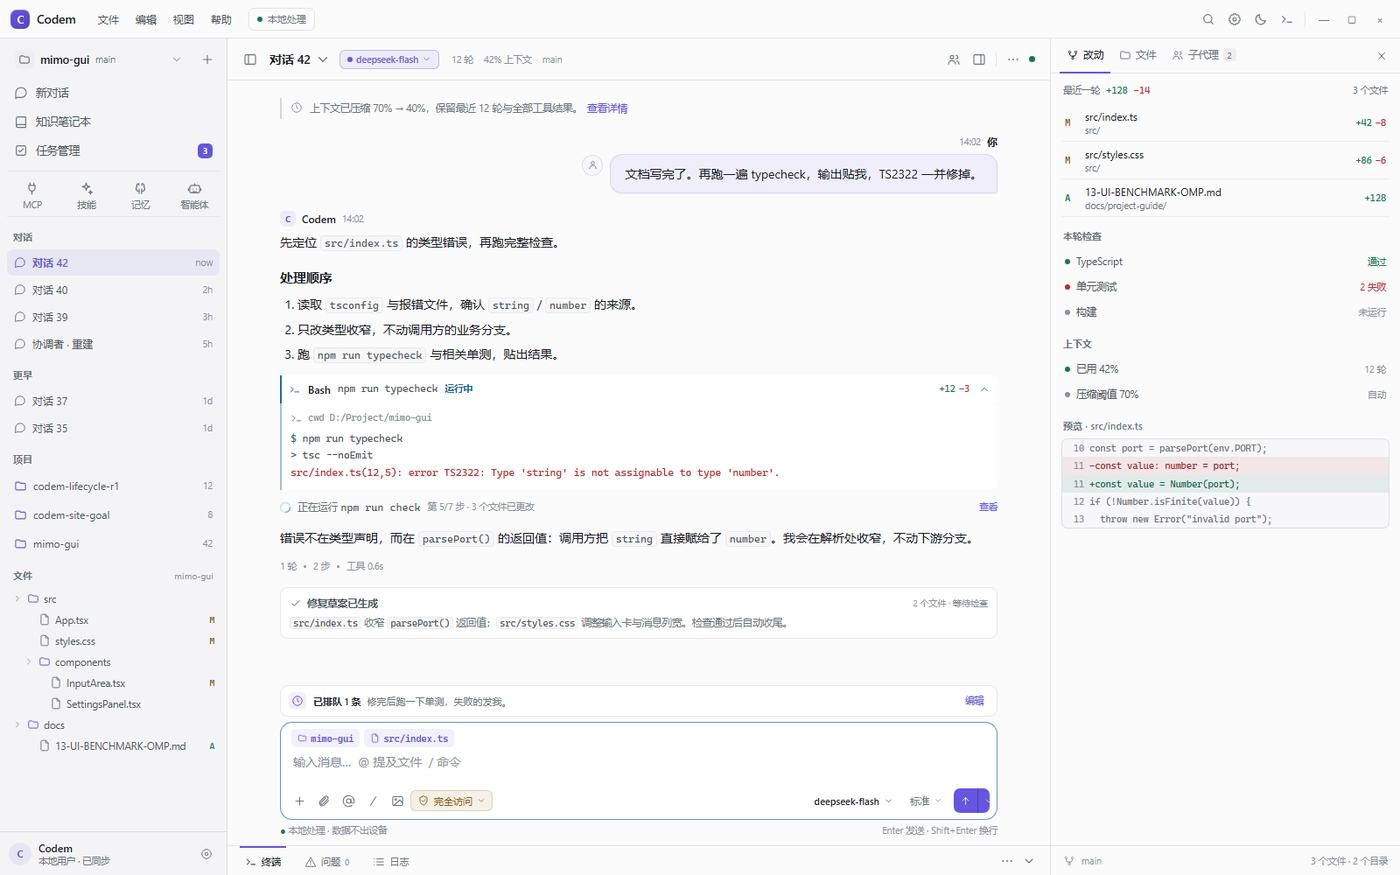
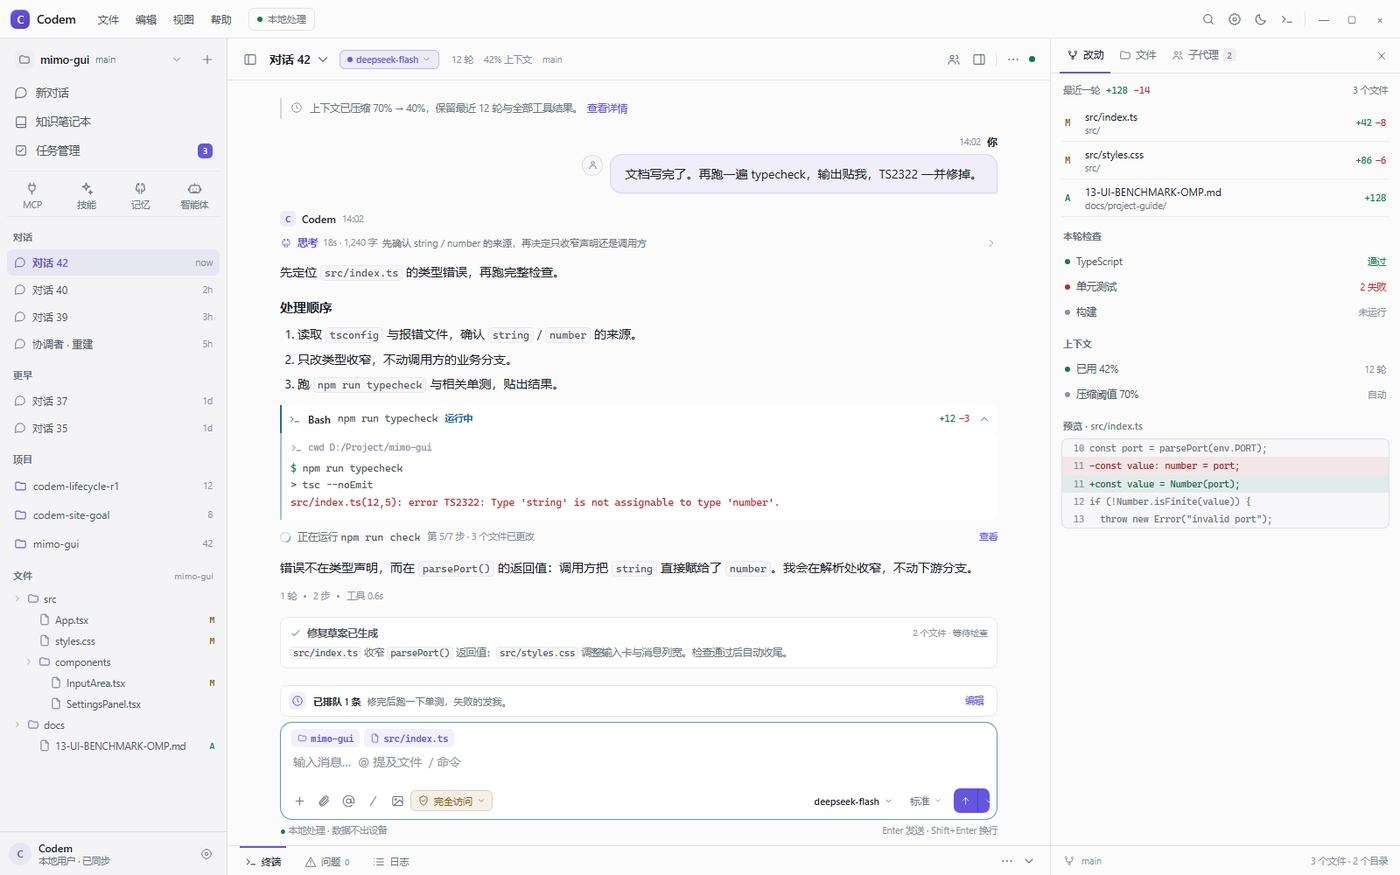
docs(ui): address grouped reasoning vs OMP think timeline
- keep Codem's single message.reasoning model; add P1-6 live grouped
  reasoning (position, latest-line follow, expand, follow-bottom, aria)
- do not fake per-think segmentation; P2 requires reasoningSegments data
- add a collapsed/expanded Think row and ?think=1 preview
- extend state matrix and acceptance to 19 checks

Changed region(s): [[0.1843, 0.2469, 0.7064, 0.7714], [0.6757, 0.4629, 0.7064, 0.4937]]

diff --git a/docs/design/ui-benchmark-mock.html b/docs/design/ui-benchmark-mock.html
@@ -563,6 +563,39 @@
   }
   .msg-name { color: var(--text); font-size: 12px; font-weight: 600; }
   .msg-time { color: var(--text-4); font-variant-numeric: tabular-nums; font-size: 10.5px; }
+  .think-row {
+    display: flex;
+    align-items: center;
+    gap: 6px;
+    width: 100%;
+    height: 26px;
+    margin: 0 0 8px;
+    padding: 0;
+    border: 0;
+    background: none;
+    color: var(--accent);
+    text-align: left;
+  }
+  .think-row .icon { width: 14px; height: 14px; flex: none; opacity: .9; }
+  .think-title { flex: none; font-size: 11.5px; font-weight: 600; }
+  .think-meta { flex: none; color: var(--text-4); font-size: 10.5px; }
+  .think-summary { flex: 1; min-width: 0; overflow: hidden; text-overflow: ellipsis; white-space: nowrap; color: var(--text-3); font-size: 11px; }
+  .think-chev { width: 12px; height: 12px; flex: none; color: var(--text-4); transition: transform .15s ease; }
+  .think-row[aria-expanded="true"] .think-chev { transform: rotate(90deg); }
+  .think-body {
+    margin: 0 0 10px 20px;
+    padding: 8px 12px;
+    border-left: 2px solid color-mix(in srgb, var(--accent) 40%, transparent);
+    border-radius: 0 8px 8px 0;
+    background: var(--surface-2);
+    color: var(--text-2);
+    font-size: 12.5px;
+    line-height: 1.65;
+    white-space: pre-wrap;
+    max-height: 220px;
+    overflow: auto;
+  }
+  .think-body code { font-family: var(--font-mono); font-size: 11.5px; color: var(--accent); }
   .msg.user { display: flex; flex-direction: column; align-items: flex-end; }
   .msg.user .msg-head { justify-content: flex-end; }
   .user-line {
@@ -1567,6 +1600,16 @@
               <article class="msg assistant">
                 <div class="msg-head"><span class="avatar">C</span><span class="msg-name">Codem</span><span class="msg-time">14:02</span></div>
                 <div class="md">
+                  <button class="think-row" id="thinkToggle" aria-expanded="false">
+                    <svg class="icon"><use href="#i-brain"/></svg>
+                    <span class="think-title">思考</span>
+                    <span class="think-meta">18s · 1,240 字</span>
+                    <span class="think-summary">先确认 string / number 的来源，再决定只收窄声明还是调用方</span>
+                    <svg class="icon think-chev"><use href="#i-chevron-right"/></svg>
+                  </button>
+                  <div class="think-body" id="thinkBody" hidden>先定位报错来源：<code>src/index.ts(12,5)</code> 的 value 被推断为 string。
+再确认 <code>parsePort()</code> 的返回类型与调用方期望，避免只改声明。
+最后跑 typecheck 与单测；失败时保留原始输出，不吞错。</div>
                   <p>先定位 <code>src/index.ts</code> 的类型错误，再跑完整检查。</p>
                   <h2>处理顺序</h2>
                   <ol>
@@ -1969,6 +2012,15 @@
       });
     });
   });
+
+  const thinkToggle = $("#thinkToggle");
+  const thinkBody = $("#thinkBody");
+  const setThink = (open) => {
+    thinkBody.hidden = !open;
+    thinkToggle.setAttribute("aria-expanded", String(open));
+  };
+  thinkToggle.addEventListener("click", () => setThink(thinkBody.hidden));
+  if (params.get("think") === "1") setThink(true);
 </script>
 </body>
 </html>

diff --git a/docs/project-guide/13-UI-BENCHMARK-OMP.md b/docs/project-guide/13-UI-BENCHMARK-OMP.md
@@ -41,6 +41,7 @@ Codem 的功能比 OMP 多得多（23 个设置分区、任务中心、知识笔
 | 8 | 侧栏/树密度：260 / 34 / 30 / 26；Git 字母 | 现在偏大、pill 吵 | 40 行滚动；hover 截图 |
 | 9 | 工具去“每张卡”边框，改行 + 状态轨 | 连续调用像一叠盒子 | 5 个工具连续截图 |
 | 10 | 用户气泡保留原版半透明紫 + 轻阴影 | 用户 review：原版比 OMP 实底更精致 | 与原版截图并排；暗/亮/三皮肤对比度 |
+| 11 | 思考块保留 Codem 的“整体一段”，先做活人感 | OMP 是 per-think 分段卡；Codem 数据模型只有一段 `message.reasoning` | 流式中最新行、完成后首行、展开全文；不按空行伪造分段 |
 
 ### 0.2 HTML 预演验证（2026-10-26）
 
@@ -62,6 +63,7 @@ Codem 的功能比 OMP 多得多（23 个设置分区、任务中心、知识笔
 | 工具行 + 左状态轨成立，但代码面板与卡片同色会糊 | 代码面板用 `--surface-2`，工具行用 `--surface`；不要加外框 |
 | 暗色 `#101318` 比 OMP `#121519` 还黑一档 | 保留 `#101318` 作为 Codem 底色；如果实拍仍偏黑，再试 `#111419`，不要直接复制 OMP |
 | 设置 active 14% 在暗色成立；20% 明显成块 | P0-5 的 14% 保持；**删掉被覆盖的旧实心规则** |
+| Codem 的 `message.reasoning` 是**一整段**，OMP 的 `ThinkCard` 是 per-think 时间线卡 | **不照搬 OMP 分段**：P1-6 保留整体模型，做“最新行/首行 + 展开全文 + 跟随最新”；真分段需要 `reasoningSegments` 数据模型，放 P2 可选 |
 
 **预演没有解决的问题**（不要假装已经解决）：
 
@@ -88,6 +90,7 @@ Codem 的功能比 OMP 多得多（23 个设置分区、任务中心、知识笔
 | 空会话 | 欢迎语 + 快捷入口 + 输入焦点 | `ChatPanel` empty-state / quick access | 不显示空白大页；输入框自动聚焦 |
 | 历史加载 / 不可用 | 骨架或状态行 + 重试 | `messages-loading` / `messages-unavailable` | 不闪“空会话”；可重试 |
 | 流式：connecting / receiving / tools | 状态行 + 计时 + 停止按钮；正文光标 | `StreamingTimer` / `StreamingWaitIndicator` / cancel | 三阶段文案不同；停止可立即取消 |
+| 思考块：collapsed / streaming / expanded | 最新行跟随 + 字数 + 展开全文 + 光标；历史默认折叠 | `ReasoningRow`（单块 `message.reasoning`） | 流式中不跳首行；展开后不每帧重置滚动；不伪造分段 |
 | 等待审批 | 行内审批卡或弹窗；风险色 + 允许一次/始终/拒绝 | `PermissionPresetSelector` / approval 逻辑 | 不把“待审批”演成“运行中”；Esc 不误放行 |
 | 队列 / guidance | Composer 上方 36px dock；可编辑/删除 | `guidanceMessages` / queue | 无队列时**不显示** dock |
 | 工具 running / done / error | 左状态轨 + 文案 + 图标；错误可展开 | `ToolCallCard` / `toolStatus` | 不只靠颜色；错误有重试/复制 |
@@ -794,7 +797,41 @@ Codem 的功能比 OMP 多得多（23 个设置分区、任务中心、知识笔
 - 24px 头像与气泡顶对齐；气泡宽度 78%，长文本换行不溢出。
 - 暗色/亮色/Hub/Dream 各一张；不出现“亮紫实底 + 深色字”的 OMP 版本。
 
-#### P1-6 设置行组 + 菜单/弹层
+#### P1-6 思考块：保留“整体一段”，但做成活的
+
+> 预演：[收起态](../design/ui-benchmark-mock-dark.jpg) / [展开态](../design/ui-benchmark-mock-think.jpg)；HTML 里用 `?think=1` 打开。
+
+**现状（先看清楚，不要按 OMP 重写）**
+
+- 数据：`Message.reasoning?: string`（`src/core/llm/types.ts:102`）——一条 assistant 消息只有**一段** reasoning；`ReasoningRow` 只接收 `text` + `running`。
+- 位置：`MessageBubble` 先渲染正文（约 789 行），再渲染 `ReasoningRow`（约 871 行），最后才是 `toolCalls`（约 876 行）。所以现在是“回答 → 思考 → 工具回执”，不是 OMP 的“思考卡 → 工具卡 → 回答”时间线。
+- 已有能力：流式时 `latestLine` 跟随 + 摘要自动滚到末尾；展开后整段正文 + 光标；历史默认折叠。**基础已经像样，不需要换成 OMP 的 `ThinkCard` 结构。**
+
+**P1 目标：一个块，但要有“活着”的感觉**
+
+- **位置**：移到 `msg-head` 之后、正文之前；正文之后仍是工具组。形成“思考（折叠）→ 正文 → 工具回执”的稳定顺序。不要声称这是真实时间线。
+- **折叠行**：26px；brain 14；`思考` 11.5/600 accent；`18s · 1,240 字` 10.5 muted；summary 11px 单行 ellipsis；chevron 12。
+  - 流式 summary 用 `latestLine`；完成后用 `firstLine`；空文本显示“（无摘要）”。
+  - 流式中标题 `思考中...` + brain pulse，但不要和 `StreamingTimer` 抢同一个 spinner。
+- **展开体**：13px / 1.65，`max-height: 360`，内部滚动；`surface-2` 底；左 2px accent 40% 轨；radius `0 8 8 0`；padding 8/12；流式末尾 6×13 光标。
+- **跟随**：只有用户位于底部时才 auto-follow 最新；用户上滚后停止跟随并显示“回到最新”小按钮，不要每帧抢滚动。
+- **折叠策略**：流式默认展开；用户手动收起后**不因新 token 重开**；完成后保持用户选择；历史默认折叠。现有 `reasoningAutoCollapsedRef` 逻辑保留，只改位置与样式。
+- **长文本**：≥400 行用分块 + `content-visibility`，不要一帧重排整段；展开体内部滚动。
+- **a11y**：toggle `aria-expanded` / `aria-controls`；正文 `role="region"` + `aria-label="思考过程"`；不要对每个 token 做 `aria-live`，只对“思考中/完成”节流播报。
+
+**明确不做**
+
+- 不按空行/句号把一段 reasoning 切成多张“ThinkCard”——那是**伪造时间线**，会误导用户以为思考和工具是交替发生的。
+- P1 不改数据库/事件协议；`message.reasoning` 仍是一段。
+
+**验收**：
+
+- 流式：summary 跟随最新行；展开体光标可见；用户上滚后不跳。
+- 完成：summary 首行；`18s · 1,240 字`；折叠/展开状态保持。
+- 历史：默认折叠；展开完整；长文本在 360 内滚动。
+- 位置：在正文之前、工具之前；和 OMP 并排看，明确“我们是一个块，不是多张卡”。
+
+#### P1-7 设置行组 + 菜单/弹层
 
 - 设置行按 `group card + divider` 重排；label 13/desc 11/control 200。
 - 菜单统一 240 宽、item 28、radius 9、border-float、无 shadow；选中 accent 软底。
@@ -807,7 +844,7 @@ Codem 的功能比 OMP 多得多（23 个设置分区、任务中心、知识笔
 - 菜单在 320 宽窗口不溢出；Esc/外点关闭。
 - 模态在 760 高窗口内 footer 可见（不滚动到底才能保存）。
 
-#### P1-7 空态 / 加载 / 错误统一
+#### P1-8 空态 / 加载 / 错误统一
 
 - 新建 `EmptyState` 组件：icon 28、标题 14/600、描述 12/muted、动作 28 按钮；居中，最大宽 360。
 - 替换 `empty-hint` 的 19 种 padding / 7 种字号（历史债）。
@@ -824,6 +861,7 @@ Codem 的功能比 OMP 多得多（23 个设置分区、任务中心、知识笔
 2. **右侧 Inspector 常驻**：项目会话默认展开 **400px**，复用 `PanelSidebar` 的 Files/Git/Changes；1440 宽 360，≤1280 收起；Composer/正文列仍 820。
 3. **底部面板**：默认 **34px 折叠**；终端按需展开 **190px**；不做 OMP 的常驻 240；与右侧 Inspector 不重复。
 4. **页面级导航**：仅对设置/任务中心/知识/用量等“全屏页”加 44px 页头 + 图标 nav；不要动聊天主区。
+5. **分段思考时间线（可选，需数据模型）**：如果产品明确要 OMP 的 per-think 卡，必须先把 `message.reasoning: string` 升级为 `reasoningSegments[]`（含 `stepId/toolCallId/startedAt/endedAt`），由 agent loop 在 `reasoning_delta` 边界写入；只对新会话启用、旧消息回退单块；不按空行猜分段。成本 2–4 天 + DB/事件契约测试，不在 P1 做。
 5. **Home/Agent Hub/Capabilities/Models**：按 OMP 的“列表 + 详情/卡片”重构；这是产品功能，不是纯 UI，需单独立项。
 
 ### 6.4 P3：皮肤与持续治理
@@ -844,7 +882,7 @@ Codem 的功能比 OMP 多得多（23 个设置分区、任务中心、知识笔
 
 在改任何视觉之前，先加一个**可重复的对照/验收脚手架**：
 
-1. **固定状态**：`workbench-dark`、`workbench-light`、`streaming-dark`、`approval-dark`、`empty-dark`、`error-dark`、`settings-dark`、`settings-search-empty`、`cmd-k`、`cmd-k-empty`、`model-menu`、`model-empty`、`hub`、`dream`。
+1. **固定状态**：`workbench-dark`、`workbench-light`、`streaming-dark`、`think-open`、`approval-dark`、`empty-dark`、`error-dark`、`settings-dark`、`settings-search-empty`、`cmd-k`、`cmd-k-empty`、`model-menu`、`model-empty`、`hub`、`dream`。
 2. **固定视口/DPR**：1600×1000、1280×800、1920×1080，各 @1x；另抽 1600×1000 @125%/150% 验证 1px 边框与 2px 焦点环（WebView2 用 CDP `Emulation.setDeviceMetricsOverride` 强制，避免混入系统缩放）。
 3. **固定数据**：用隔离数据副本 + 固定会话；不要用用户当前会话（会变）。
 4. **固定操作序列**：启动 → 等待 `#root`/首屏 → 关闭引导 → 打开目标 → 截图。
@@ -868,7 +906,7 @@ Codem 的功能比 OMP 多得多（23 个设置分区、任务中心、知识笔
     { "width": 1280, "height": 800, "dpr": 1 },
     { "width": 1920, "height": 1080, "dpr": 1 }
   ],
-  "states": ["workbench-dark", "workbench-light", "streaming-dark", "approval-dark", "empty-dark", "error-dark", "settings-dark", "settings-search-empty", "cmd-k", "cmd-k-empty", "model-menu", "model-empty"],
+  "states": ["workbench-dark", "workbench-light", "streaming-dark", "think-open", "approval-dark", "empty-dark", "error-dark", "settings-dark", "settings-search-empty", "cmd-k", "cmd-k-empty", "model-menu", "model-empty"],
   "selectors": {
     ".input-card-container": {
       "maxWidth": "820px",
@@ -906,10 +944,10 @@ Codem 的功能比 OMP 多得多（23 个设置分区、任务中心、知识笔
 2. **token/契约**：更新 `ui-benchmark-contract.json` 与 `docs/ui-spec.md`（如涉及新 token）。
 3. **截图**：`before/` + `after/` + `contact-sheet`；放 `docs/evidence/ui-benchmark-<phase>-<date>/`，附 README（来源/操作/读数）。
 4. **机器结果**：`npm run audit:docs`、`npx tsc --noEmit`、相关判据；CSS 改动跑 `css-contract.mjs --check`。
-5. **人工签字**：18 项检查表（见 7.4）逐项打勾；不签不合并。
+5. **人工签字**：19 项检查表（见 7.4）逐项打勾；不签不合并。
 6. **回滚点**：一个阶段一个 commit；出问题 `git revert` 该 commit，不要手删半套 CSS。
 
-### 7.4 人工验收 18 项（每阶段都看）
+### 7.4 人工验收 19 项（每阶段都看）
 
 - [ ] 边框只有一种浓度（主/次/分隔），没有“边框 + 阴影 + 内线”三层。
 - [ ] 同一屏只有一种焦点环；输入框、按钮、树、菜单各自只有一圈。
@@ -929,6 +967,7 @@ Codem 的功能比 OMP 多得多（23 个设置分区、任务中心、知识笔
 - [ ] 设置“记忆体检”可被搜索到；保存失败显示“未确认保存”，不显示已保存。
 - [ ] 用户气泡保持原版半透明紫（15%/25% + 轻阴影 + 24px 头像），没有变成 OMP 实底。
 - [ ] 不只靠颜色：diff 有 +/−、Git 有字母、状态有图标/文字。
+- [ ] 思考块在正文之前：流式 summary 跟随最新行、展开体有光标、用户上滚不跳；完成后首行 + 字数；不按空行伪造分段。
 
 ### 7.5 建议的提交粒度
 
@@ -945,6 +984,7 @@ Codem 的功能比 OMP 多得多（23 个设置分区、任务中心、知识笔
 | P1-1 | `feat(cmdk): grouped command center` | 只改命令面板 |
 | P1-2 | `feat(model): role-based picker` | 只改模型菜单 |
 | P1-3 | `style(sidebar): density + tree status` | 只改侧栏/树 |
+| P1-6 | `style(chat): live grouped reasoning` | 只改思考块 |
 | P1-4 | `style(tools): row-first tool surface` | 只改工具 |
 
 > 不要一个 commit 同时改 token + 布局 + 组件；否则截图差异无法归因，回滚也会带走别的改动。

diff --git a/docs/design/README.md b/docs/design/README.md
@@ -29,6 +29,7 @@ start docs\design\ui-benchmark-mock.html
 ?overlay=cmdk|model
 ?panel=1          # 展开底部终端面板
 ?focus=1          # 聚焦 Composer
+?think=1          # 展开思考块
 ?clean=1          # 隐藏 mock 控制条，用于截图
 ```
 
@@ -49,6 +50,7 @@ docs/design/ui-benchmark-mock.html?panel=1&clean=1
 | `ui-benchmark-mock-light.jpg` | 默认 light 工作台 |
 | `ui-benchmark-mock-settings.jpg` | 整页设置 |
 | `ui-benchmark-mock-cmdk.jpg` | 命令面板 |
+| `ui-benchmark-mock-think.jpg` | 思考块展开（`?think=1`） |
 | `reference-user-bubble.png` | 用户提供的原版用户气泡参考（只作颜色/边框/头像对照） |
 
 ## 边界
